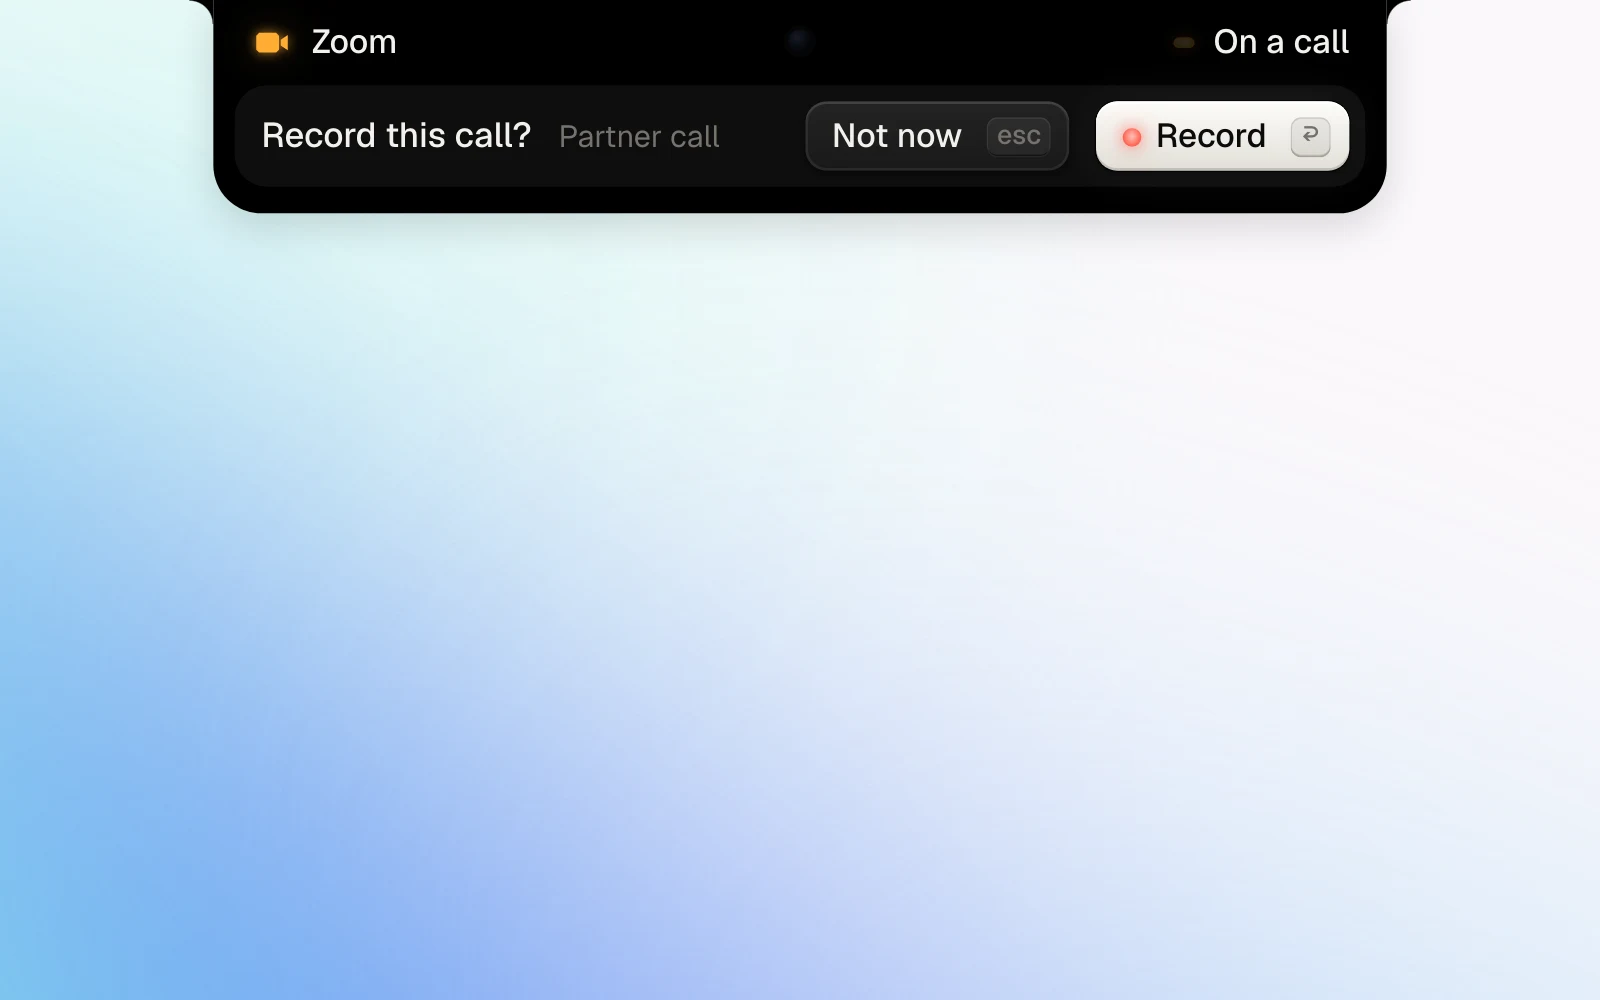
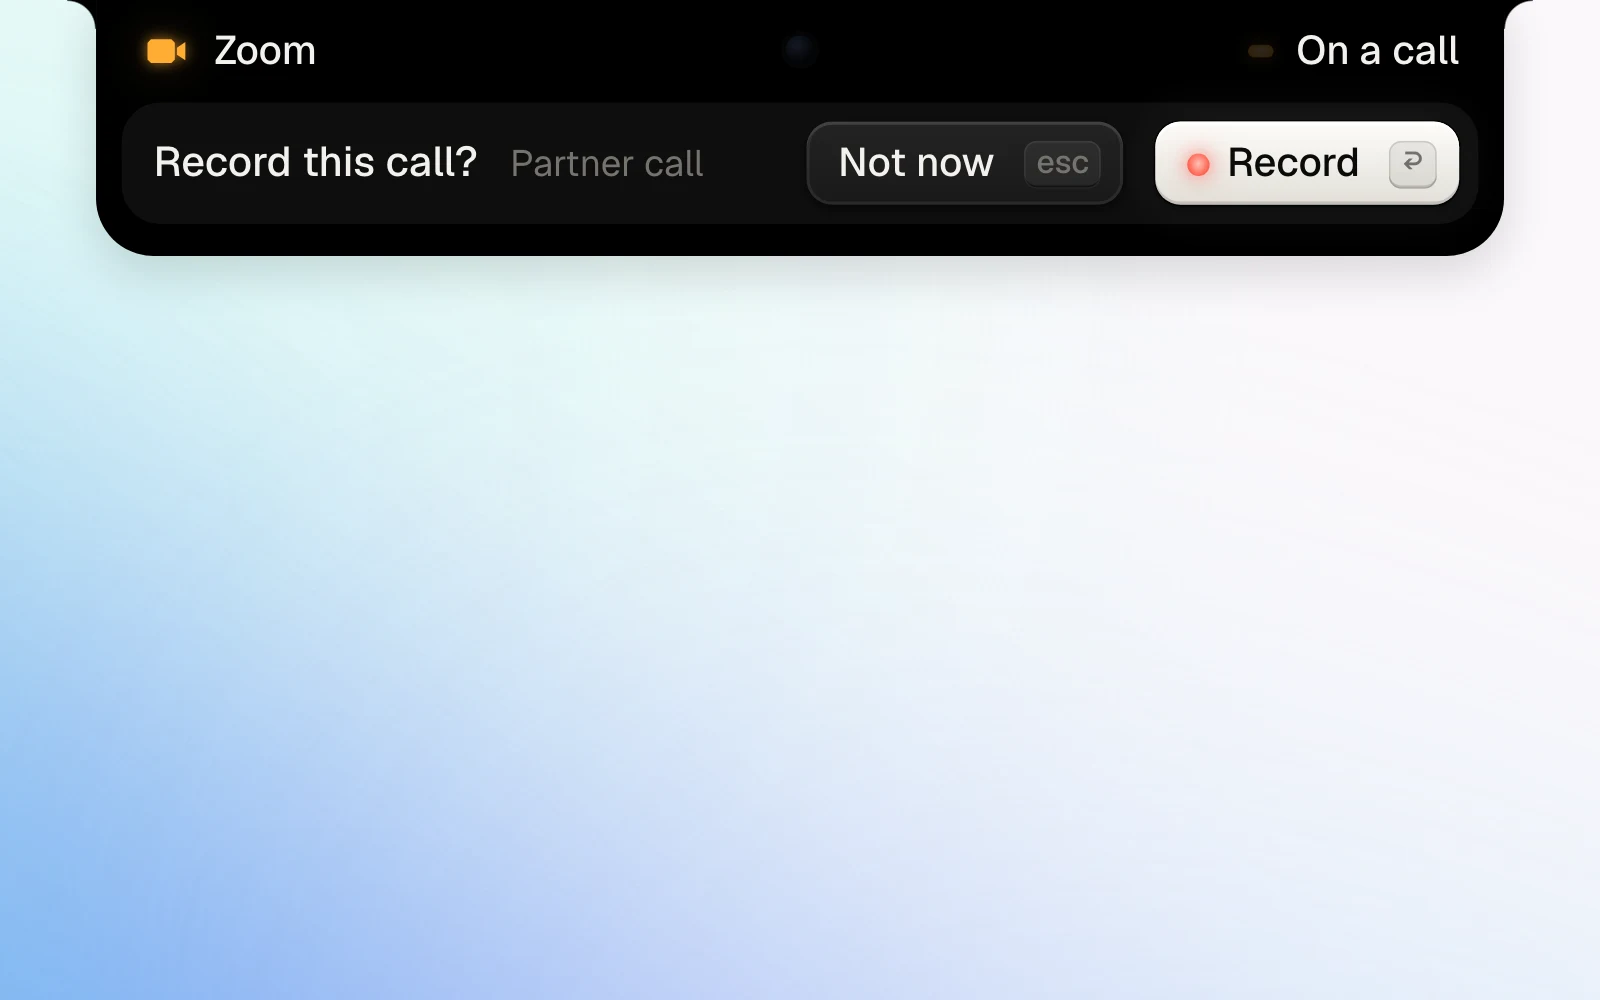
README: every picture full width, one per row; illustrations zoomed in further

Changed region(s): [[0.0312, 0.0, 0.9688, 0.279], [0.0, 0.434, 0.4062, 1.0]]

diff --git a/README.md b/README.md
@@ -24,8 +24,11 @@ next meeting and how long until it starts. When something needs you, a single li
 under it. Hover, and it opens into a panel.
 
 <p align="center">
-  <img src="docs/media/ill-meeting.jpg" alt="Closed notch with a meeting countdown" width="49%">
-  <img src="docs/media/ill-ready.jpg" alt="A strip under the notch: notes and 3 action items are ready" width="49%">
+  <img src="docs/media/ill-meeting.jpg" alt="Closed notch with a meeting countdown" width="100%">
+</p>
+
+<p align="center">
+  <img src="docs/media/ill-ready.jpg" alt="A strip under the notch: notes and 3 action items are ready" width="100%">
 </p>
 
 ### Calendar
@@ -45,8 +48,11 @@ your Mac and the audio is never saved. Long dictation grows into a live view, an
 takes it back. Say "add task…" and it becomes a task instead.
 
 <p align="center">
-  <img src="docs/media/ill-dictation.jpg" alt="Holding fn: the notch listens and shows the words live" width="49%">
-  <img src="docs/media/ill-inserted.jpg" alt="The words were inserted where the cursor was" width="49%">
+  <img src="docs/media/ill-dictation.jpg" alt="Holding fn: the notch listens and shows the words live" width="100%">
+</p>
+
+<p align="center">
+  <img src="docs/media/ill-inserted.jpg" alt="The words were inserted where the cursor was" width="100%">
 </p>
 
 ### Meeting notes
@@ -57,8 +63,11 @@ speakers, a summary, what was decided, and what's on you. Export it as Markdown,
 plain text.
 
 <p align="center">
-  <img src="docs/media/ill-call.jpg" alt="A Zoom call starts and Crenel asks whether to record it" width="49%">
-  <img src="docs/media/ill-recording.jpg" alt="Recording a call: elapsed time, waveform and levels for your mic and the call" width="49%">
+  <img src="docs/media/ill-call.jpg" alt="A Zoom call starts and Crenel asks whether to record it" width="100%">
+</p>
+
+<p align="center">
+  <img src="docs/media/ill-recording.jpg" alt="Recording a call: elapsed time, waveform and levels for your mic and the call" width="100%">
 </p>
 
 ### Tasks
